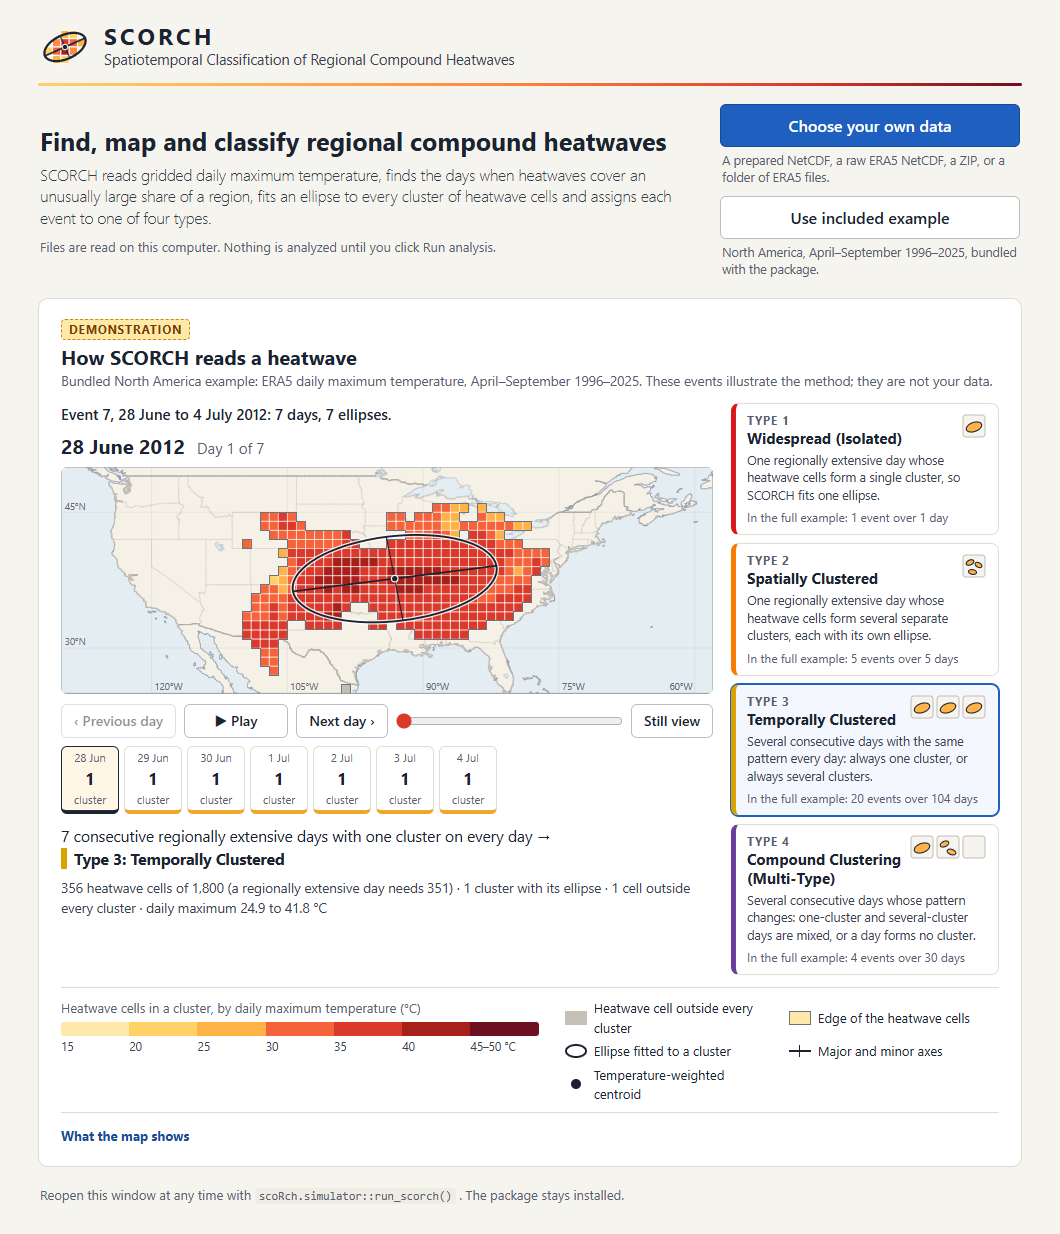
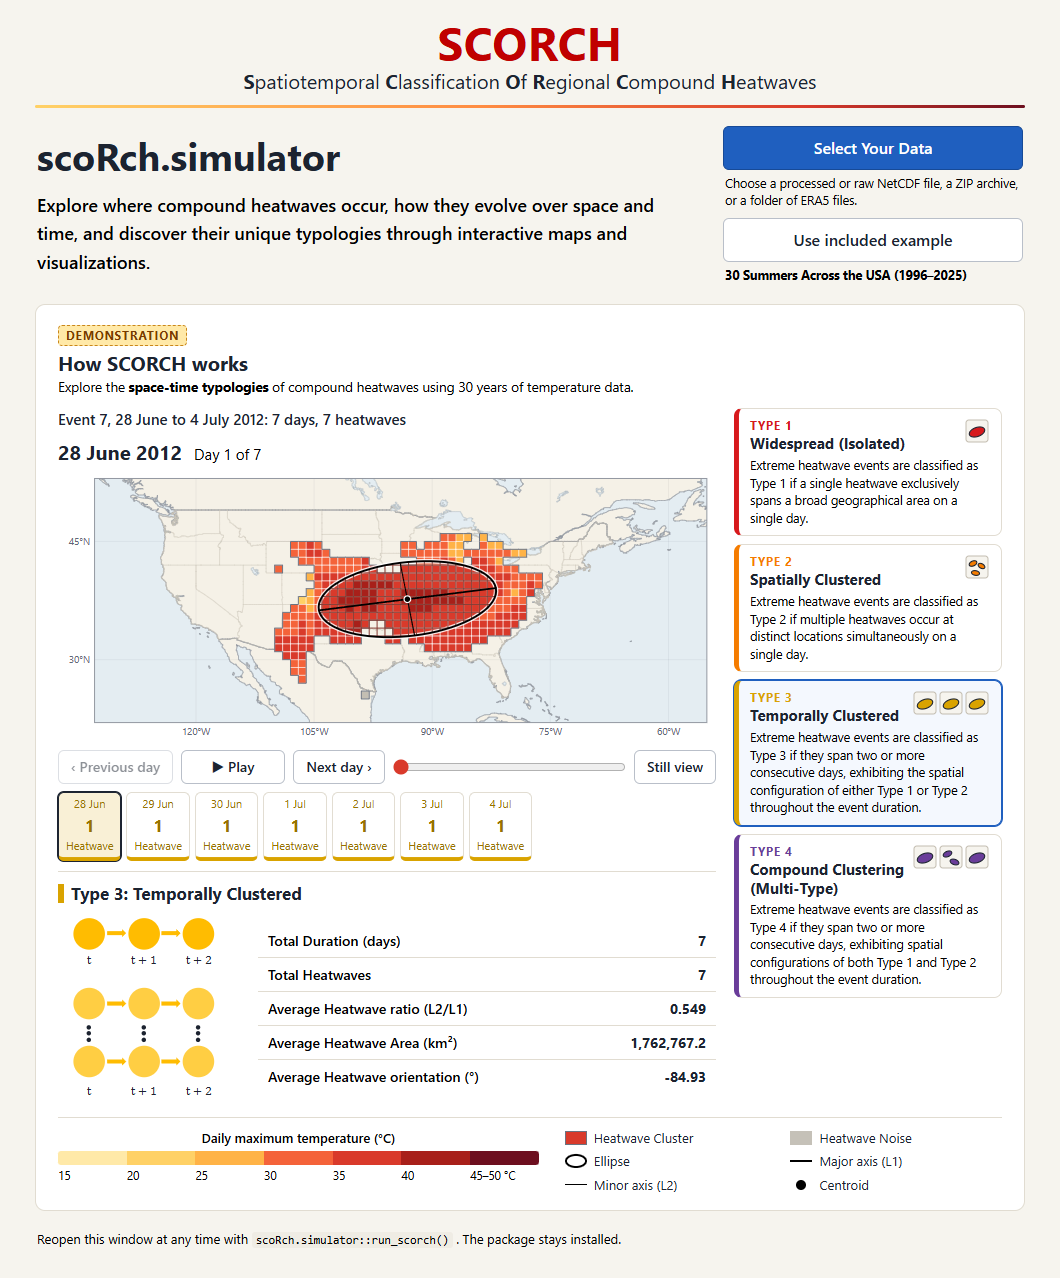
Release scoRch.simulator 1.4.0 with the redesigned SCORCH window
Version 1.4.0 in the package, citation, installer default, README block,
badge, release link and maintenance note, and the reference summary. The
README describes the finished window (Select Your Data, Open in browser, the
event explorer, the four-stage running screen and the simpler results) and
shows its new opening screen.

Changed region(s): [[0.0311, 0.2464, 0.9651, 0.9854], [0.0311, 0.0, 0.9651, 0.2464], [0.5915, 0.7083, 0.6538, 0.7391]]

diff --git a/README.md b/README.md
@@ -2,7 +2,7 @@
 
 [![License: GPL-3.0-or-later](https://img.shields.io/badge/license-GPL--3.0--or--later-orange)](LICENSE.txt)
 [![R: 4.4 or newer](https://img.shields.io/badge/R-%E2%89%A54.4-blue)](#install-and-open)
-[![Version: 1.3.0](https://img.shields.io/badge/version-1.3.0-blue)](https://github.com/fawazbouhamad/scoRch.simulator/releases/tag/v1.3.0)
+[![Version: 1.4.0](https://img.shields.io/badge/version-1.4.0-blue)](https://github.com/fawazbouhamad/scoRch.simulator/releases/tag/v1.4.0)
 [![Software checks](https://github.com/fawazbouhamad/scoRch.simulator/actions/workflows/checks.yaml/badge.svg?branch=main)](https://github.com/fawazbouhamad/scoRch.simulator/actions/workflows/checks.yaml)
 
 An R package implementing **SCORCH: Spatiotemporal Classification of Regional
@@ -21,7 +21,7 @@ Console and press Enter. It installs the package once and then opens the SCORCH
 window.
 
 ```r
-source("https://raw.githubusercontent.com/fawazbouhamad/scoRch.simulator/v1.3.0/software/setup/install.R")
+source("https://raw.githubusercontent.com/fawazbouhamad/scoRch.simulator/v1.4.0/software/setup/install.R")
 install_scorch()
 ```
 
@@ -51,11 +51,13 @@ To move to a newer release, paste the block from that release's README.
 
 ## The SCORCH window
 
-<img src="software/figures/setup_window.png" width="720" alt="The SCORCH opening screen: Choose your own data, Use included example, and a map of heatwave cells with a fitted ellipse">
+<img src="software/figures/setup_window.png" width="720" alt="The SCORCH opening screen: Select Your Data, Use included example, and a demonstration map of heatwave cells with a fitted ellipse beside the four event types">
 
-**1. Choose.** The opening screen has two buttons.
+**1. Choose.** The opening screen has two buttons. In RStudio the window opens in
+a dialog of fixed size; **Open in browser** at the top right continues in a
+browser window that you can resize, with any finished run.
 
-- **Choose your own data** opens one file chooser. Browse to **Downloads** or any
+- **Select Your Data** opens one file chooser. Browse to **Downloads** or any
   other folder and select a prepared NetCDF, a raw ERA5 NetCDF or a ZIP, then
   click **Open**. For a folder of ERA5 files, open the folder and click
   **Use this folder**. SCORCH works out which of these you selected. Files are read
@@ -66,9 +68,11 @@ To move to a newer release, paste the block from that release's README.
 
 The map on the opening screen is a **demonstration** from that bundled dataset.
 Play, pause or step through the days of one event of each type to see which grid
-cells qualify, where SCORCH fits ellipses and why the event has its type. **Still
-view** shows every day side by side; it is the default when your system asks for
-reduced motion.
+cells qualify, where SCORCH fits ellipses and why the event has its type. Each
+type card carries its symbol from the study's Figure 4, and the selected event's
+values from Catalog 5 are listed below the map. Pointing at an ellipse shows its
+axis ratio, area and orientation. **Still view** shows every day side by side;
+it is the default when your system asks for reduced motion.
 
 **2. Check the settings that need a decision.** SCORCH reads the variable,
 coordinates, time axis and units from the file and shows the dataset name, its
@@ -77,8 +81,8 @@ stays in view at the lower edge of the window while you check them.
 
 - **Months** apply in every selected year. June through August of a file holding
   1996–2025 means those three months in each of the 30 years, and the window says
-  so, with the number of days. **Limit the analysis dates** sets the first and
-  the last date to analyze.
+  so, with the number of days. A new run covers every date of the data in those
+  months; the dates of a reused configuration still apply.
 - **Temperature** is always shown in °C. A file in Kelvin is converted once, when
   it is read.
 - **A question** appears only when the file leaves something open, for example
@@ -90,22 +94,25 @@ stays in view at the lower edge of the window while you check them.
   `output/SCORCH_run_001` under your R working directory.
 - **Advanced settings** are collapsed. They hold the heatwave definition,
   clustering and ellipse settings, bootstrap repetitions and random seeds, the
-  spatial model predictors, ERA5 preprocessing (for raw ERA5 input) and how the
-  file is read: its format, units, and variable and coordinate names. These stay
-  on automatic detection unless you change them; the variable SCORCH found is
-  named on the dataset card. **Reuse a saved configuration** fills the settings
-  from the `config.yaml` of an earlier run and keeps the dataset you selected.
-  Its advanced settings and results folder stay in use when you change the data
-  afterwards. The months, the date limit and how the file is read start again
-  with other data; reuse the file to apply its months and dates again.
+  spatial model predictors and ERA5 preprocessing (for raw ERA5 input). The
+  file's format, units, and variable and coordinate names are detected; a
+  question appears where the file leaves one open. **Reuse a saved configuration**
+  fills the settings from the `config.yaml` of an earlier run, including how its
+  file is read, and keeps the dataset you selected. Its advanced settings and
+  results folder stay in use when you change the data afterwards. The months,
+  the analysis dates and how the file is read start again with other data; reuse
+  the file to apply its months and dates again.
 
-**3. Run and read the result.** Click **Run analysis** and follow the progress.
-When it finishes, the window shows the number of events of each of the four types
-and the full results path, with **Open summary**, **Open results folder** and
-**Set up another run** directly below them. The dataset, the results of each
-stage and the settings are listed underneath, and the map now shows the events
-of your run. A reload of the window shows these results again, until you click
-**Set up another run**. Each run folder holds `Summary.txt`, the effective
+**3. Run and read the result.** Click **Run analysis**. A full-page running screen
+follows the four stages (Heatwave Detection, Heatwave Clustering, Heatwave
+Classification and Heatwave Modeling) with the elapsed time; it marks each stage
+as it is reached and finished, and shows no estimated finishing time. If the run
+stops, the screen says why and **Back to settings** returns to your settings.
+When the results are saved, the window shows the number of events of each of the
+four types and the full results path, with **Open summary**, **Open results
+folder** and **Set up another run** directly below them. The map then shows the
+events of your run: pick a type card, then an event from its list. A reload of
+the window shows these results again, until you click **Set up another run**. Each run folder holds `Summary.txt`, the effective
 `config.yaml`, the catalogs, model workbooks and figures. The configuration
 refers to the original input, including an original ZIP. To keep the result in R,
 start with `result <- scoRch.simulator::run_scorch()`.
@@ -373,7 +380,7 @@ Assemble a package with `Rscript software/setup/install.R .package`, then use
 `devtools::check(".package")`. The test suite compares runs bit for bit and must
 run against an installed build, as `R CMD check` does, not against
 `devtools::load_all()` or under `covr`, where the bit-for-bit comparisons are
-skipped. The installer defaults to stable `v1.3.0`;
+skipped. The installer defaults to stable `v1.4.0`;
 developers can request `install_scorch(ref = "main")`. `force = TRUE` reinstalls
 a release that is already installed and `open = FALSE` installs without opening
 the window. Dependency upgrades are disabled unless requested. A copy installed
